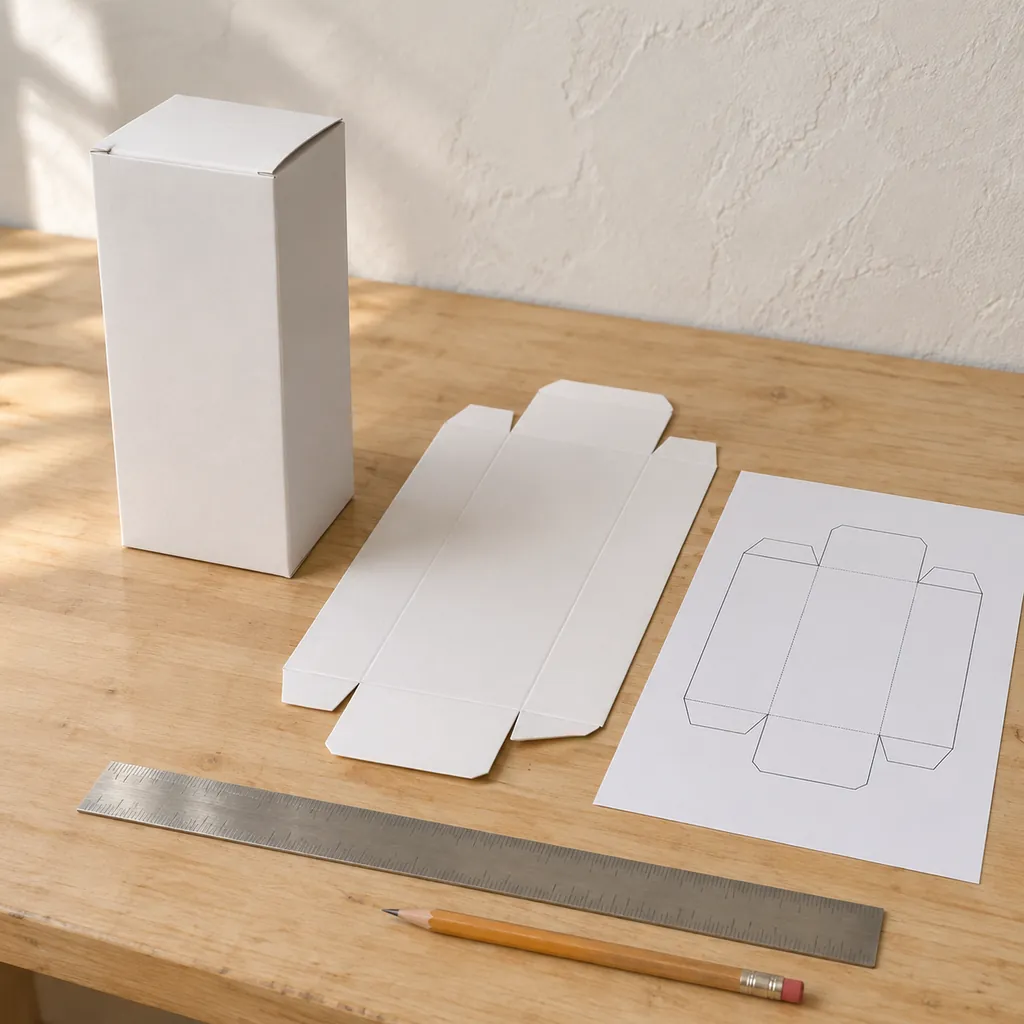
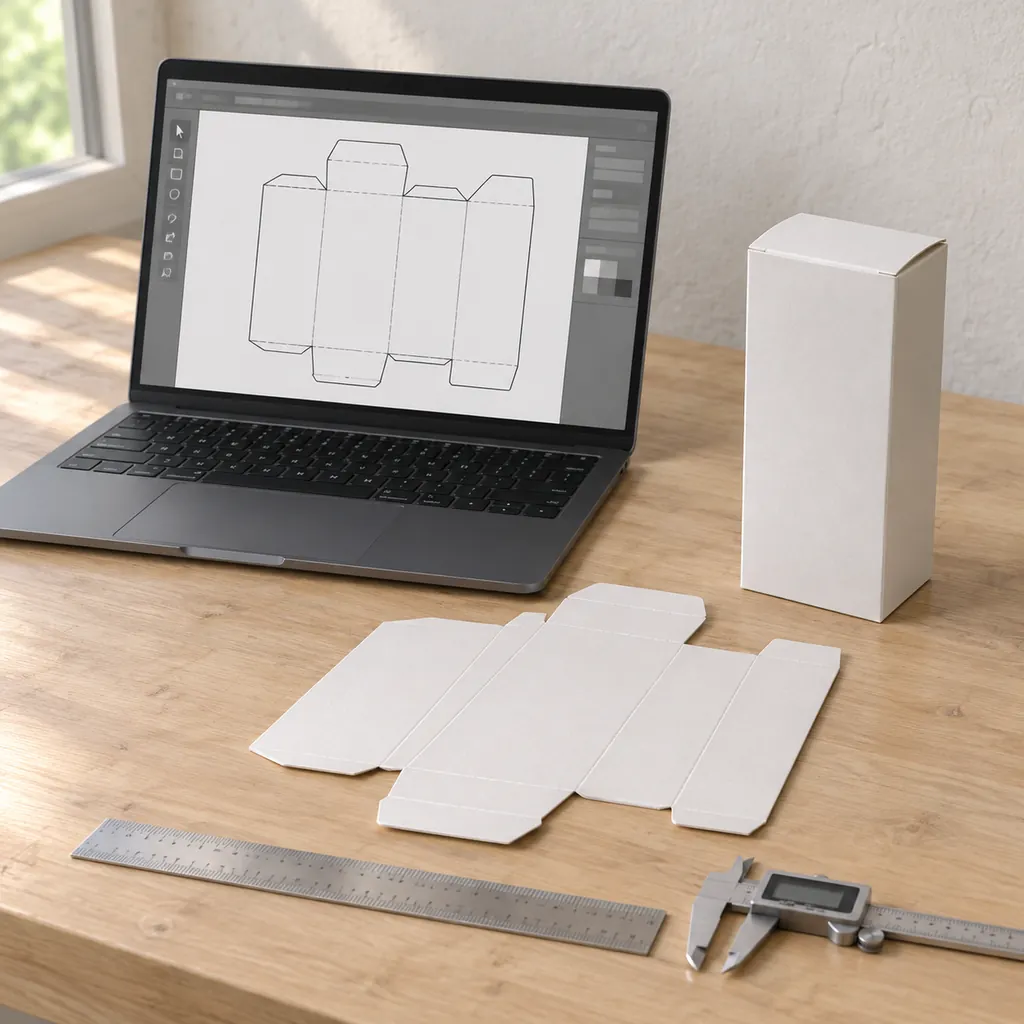
site(index): workbench photo v2 — CAD dieline on screen -> die-cut blank -> assembled carton (removes hand-drawn pencil cue)

diff --git a/index.html b/index.html
@@ -358,8 +358,8 @@
           </ol>
         </div>
         <figure class="hero__figure">
-          <img src="assets/img/steps-workbench.webp?v=43f1aca95a" width="1024" height="1024" loading="lazy"
-               alt="Photograph of a white tuck-end carton sample on a workshop bench, next to its flat die-cut blank and a line drawing of the same dieline, with a steel ruler and a pencil. Representative photograph, not a specification.">
+          <img src="assets/img/steps-workbench.webp?v=5c897b4285" width="1024" height="1024" loading="lazy"
+               alt="Photograph of a laptop showing a carton dieline in a vector drawing program, next to the flat die-cut blank and the assembled white carton, with a steel ruler and a digital caliper. Representative photograph, not a specification.">
           <figcaption>The drawing, the sample and the box — in that order, every time.</figcaption>
         </figure>
       </div>
